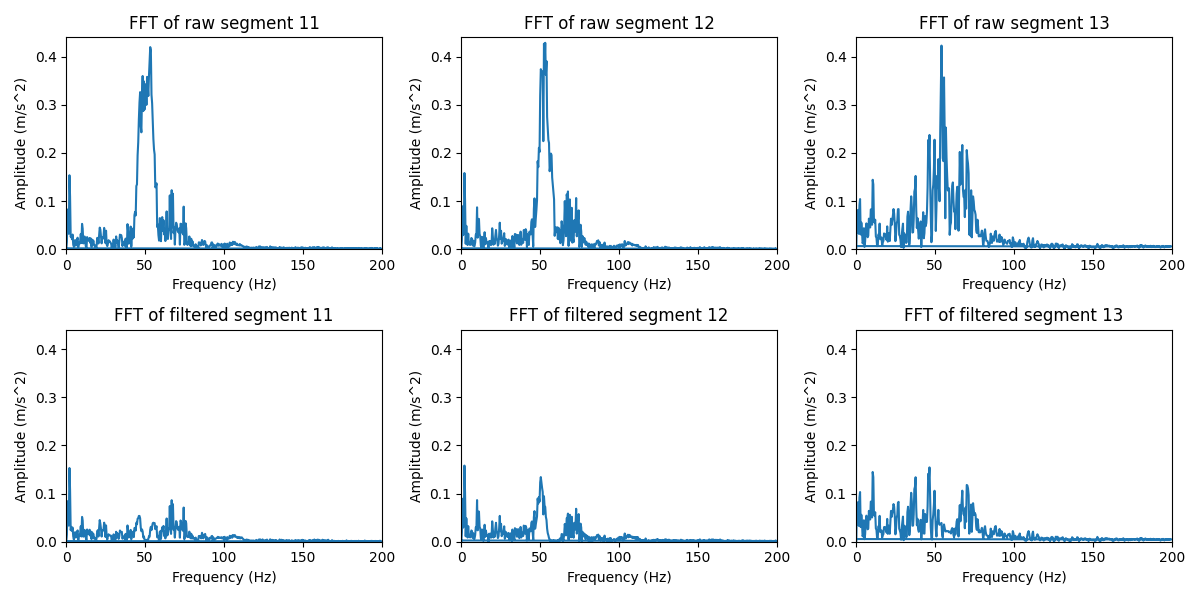
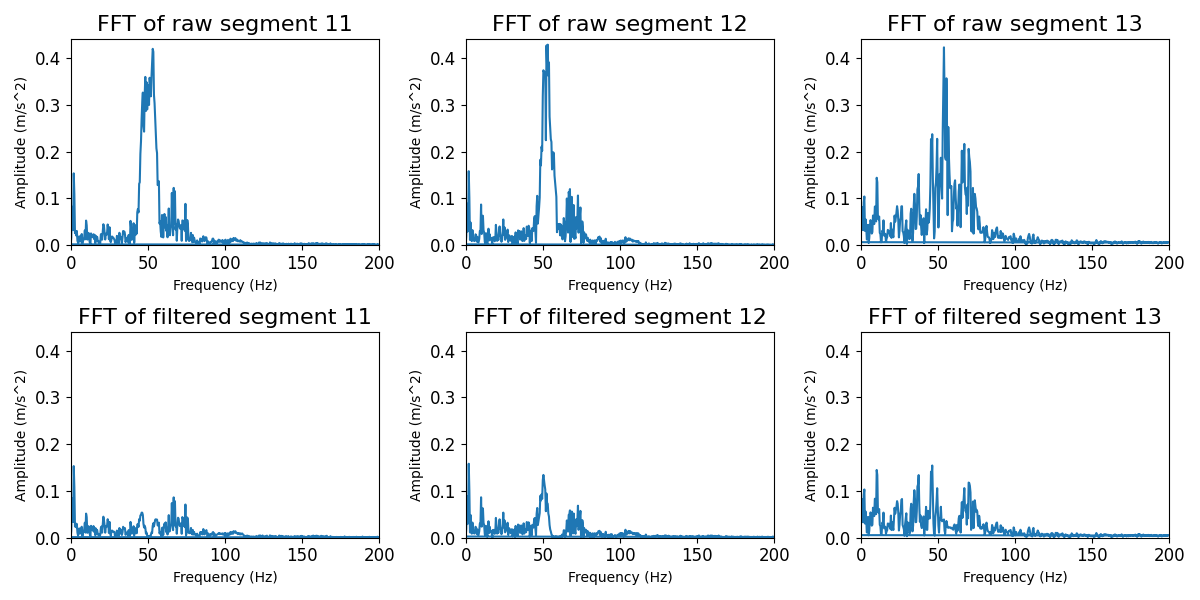
.

diff --git a/Analisi/Analysis_notch_filter.py b/Analisi/Analysis_notch_filter.py
@@ -109,25 +109,31 @@ plt.figure(figsize=(10,6))
 
 plt.subplot(3,1,1)
 plt.plot(freq_900,2*np.abs(fft_900)/len(fft_900))
-plt.title('Fourier Transform of Acceleration y at 900rpm')
+plt.title('Fourier Transform of Acceleration y at 900rpm',fontsize=16)
 plt.xlabel('Frequency (Hz)')
 plt.ylabel('Amplitude (m/s^2)')
 plt.xlim(0, sampling_rate / 2) 
+plt.xticks(fontsize=12)  # Adjust the fontsize as needed
+plt.yticks(fontsize=12)
 
 plt.subplot(3,1,2)
 plt.plot(freq_1500,2*np.abs(fft_1500)/len(fft_1500))
-plt.title('Fourier Transform of Acceleration y at 1500rpm')
+plt.title('Fourier Transform of Acceleration y at 1500rpm',fontsize=16)
 plt.xlabel('Frequency (Hz)')
 plt.ylabel('Amplitude (m/s^2)')
 plt.xlim(0, sampling_rate / 2)
+plt.xticks(fontsize=12)  # Adjust the fontsize as needed
+plt.yticks(fontsize=12)
 
 plt.subplot(3,1,3)
 plt.plot(freq_2000,2*np.abs(fft_2000)/len(fft_2000))
-plt.title('Fourier Transform of Acceleration y at 2000rpm')
+plt.title('Fourier Transform of Acceleration y at 2000rpm',fontsize=16)
 plt.xlabel('Frequency (Hz)')
 plt.ylabel('Amplitude (m/s^2)')
 plt.xlim(0, sampling_rate / 2)
 plt.tight_layout()
+plt.xticks(fontsize=12)  # Adjust the fontsize as needed
+plt.yticks(fontsize=12)
 
 # Save and plot the graph
 plt.savefig("plot/Accelerometer/fft_900_vs_1500_vs_2000.png")
@@ -163,17 +169,21 @@ freq_2000=np.fft.fftfreq(len(Sgyr2000['Gyroscope x (rad/s)']),d=1/sampling_rate)
 plt.figure(figsize=(10, 6))
 plt.subplot(2, 1, 1)
 plt.plot(Sgyr2000['Time (s)'],Sgyr2000['Gyroscope x (rad/s)'])
-plt.title('Original Signal of Gyroscope x at 2000rpm')
+plt.title('Original Signal of Gyroscope x at 2000rpm',fontsize=16)
 plt.xlabel('Time')
 plt.ylabel('Amplitude (rad/s)')
+plt.xticks(fontsize=12)  # Adjust the fontsize as needed
+plt.yticks(fontsize=12)
 
 # Plot the Fourier Transform
 plt.subplot(2, 1, 2)
 plt.plot(freq_2000, 2*np.abs(fft_2000)/len(fft_2000))
-plt.title('Fourier Transform of Gyroscope x at 2000rpm')
+plt.title('Fourier Transform of Gyroscope x at 2000rpm',fontsize=16)
 plt.xlabel('Frequency (Hz)')
 plt.ylabel('Amplitude  (rad/s)')
 plt.xlim(0, sampling_rate / 2)  
+plt.xticks(fontsize=12)  # Adjust the fontsize as needed
+plt.yticks(fontsize=12)
 plt.tight_layout()
 
 plt.savefig("plot/Gyroscope/fft_200rpm.png")

diff --git a/Analisi/Analysis_filter_Gyr.py b/Analisi/Analysis_filter_Gyr.py
@@ -49,17 +49,21 @@ plt.figure(figsize=(10, 6))
 # Plot the original signal 
 plt.subplot(2, 1, 1)
 plt.plot(data_Gyr['Time (s)'],data_Gyr["Gyroscope x (rad/s)"])
-plt.title('The original signal of the X-axis gyroscope reads at 900rpm with the engine running but the vehicle stationary')
+plt.title('The original signal of the X-axis gyroscope reads at 900rpm',fontsize=16)
 plt.xlabel('Time')
 plt.ylabel('Amplitude (rad/s)')
+plt.xticks(fontsize=12)  # Adjust the fontsize as needed
+plt.yticks(fontsize=12)
 
 # Plot the Fourier Transform
 plt.subplot(2, 1, 2)
 plt.plot(frequencies, 2*np.abs(fft_result_Gyr_x)/len(fft_result_Gyr_x))
-plt.title('Fourier Transform of X-axis Gyroscope')
+plt.title('Fourier Transform of X-axis Gyroscope at 900 rpm',fontsize=16)
 plt.xlabel('Frequency (Hz)')
 plt.ylabel('Amplitude (rad/s)')
-plt.xlim(0, sampling_rate / 2)  # Display only positive frequencies
+plt.xlim(0, sampling_rate / 2)
+plt.xticks(fontsize=12)  # Adjust the fontsize as needed
+plt.yticks(fontsize=12)  # Display only positive frequencies
 plt.tight_layout()
 plt.savefig("plot/Gyroscope/fft_x_900rpm.png")
 plt.show()

diff --git a/plot_notchfilter1.py b/plot_notchfilter1.py
@@ -50,11 +50,13 @@ for i, signal in enumerate(signals):
     # Plot FFT magnitude
     ax = axes[i // 3, i % 3]  # Adjusted indexing here
     ax.plot(freq, 2*np.abs(signals[i])/len(signals[i]))
-    ax.set_title(titles[i])  # Use the defined titles
+    ax.set_title(titles[i],fontsize=16)  # Use the defined titles
     ax.set_xlabel('Frequency (Hz)')
     ax.set_ylabel('Amplitude (m/s^2)')
     ax.set_xlim(0, sampling_rate / 2)
     ax.set_ylim(0,0.44)
+    ax.xaxis.set_tick_params(labelsize=12)
+    ax.yaxis.set_tick_params(labelsize=12)
 
 # Adjust layout and display
 plt.tight_layout()

diff --git a/plot_notchfilter2.py b/plot_notchfilter2.py
@@ -48,11 +48,13 @@ for i, signal in enumerate(signals):
     # Plot FFT magnitude
     ax = axes[i // 2, i % 2]  # Adjusted indexing here
     ax.plot(freq,2* np.abs(signals[i])/len(signals[i]))
-    ax.set_title(titles[i])  # Use the defined titles
+    ax.set_title(titles[i],fontsize=16)  # Use the defined titles
     ax.set_xlabel('Frequency (Hz)')
     ax.set_ylabel('Amplitude (m/s^2)')
     ax.set_xlim(0, sampling_rate / 2)
     ax.set_ylim(0,0.4)
+    ax.xaxis.set_tick_params(labelsize=12)
+    ax.yaxis.set_tick_params(labelsize=12)
 
 # Adjust layout and display
 plt.tight_layout()
